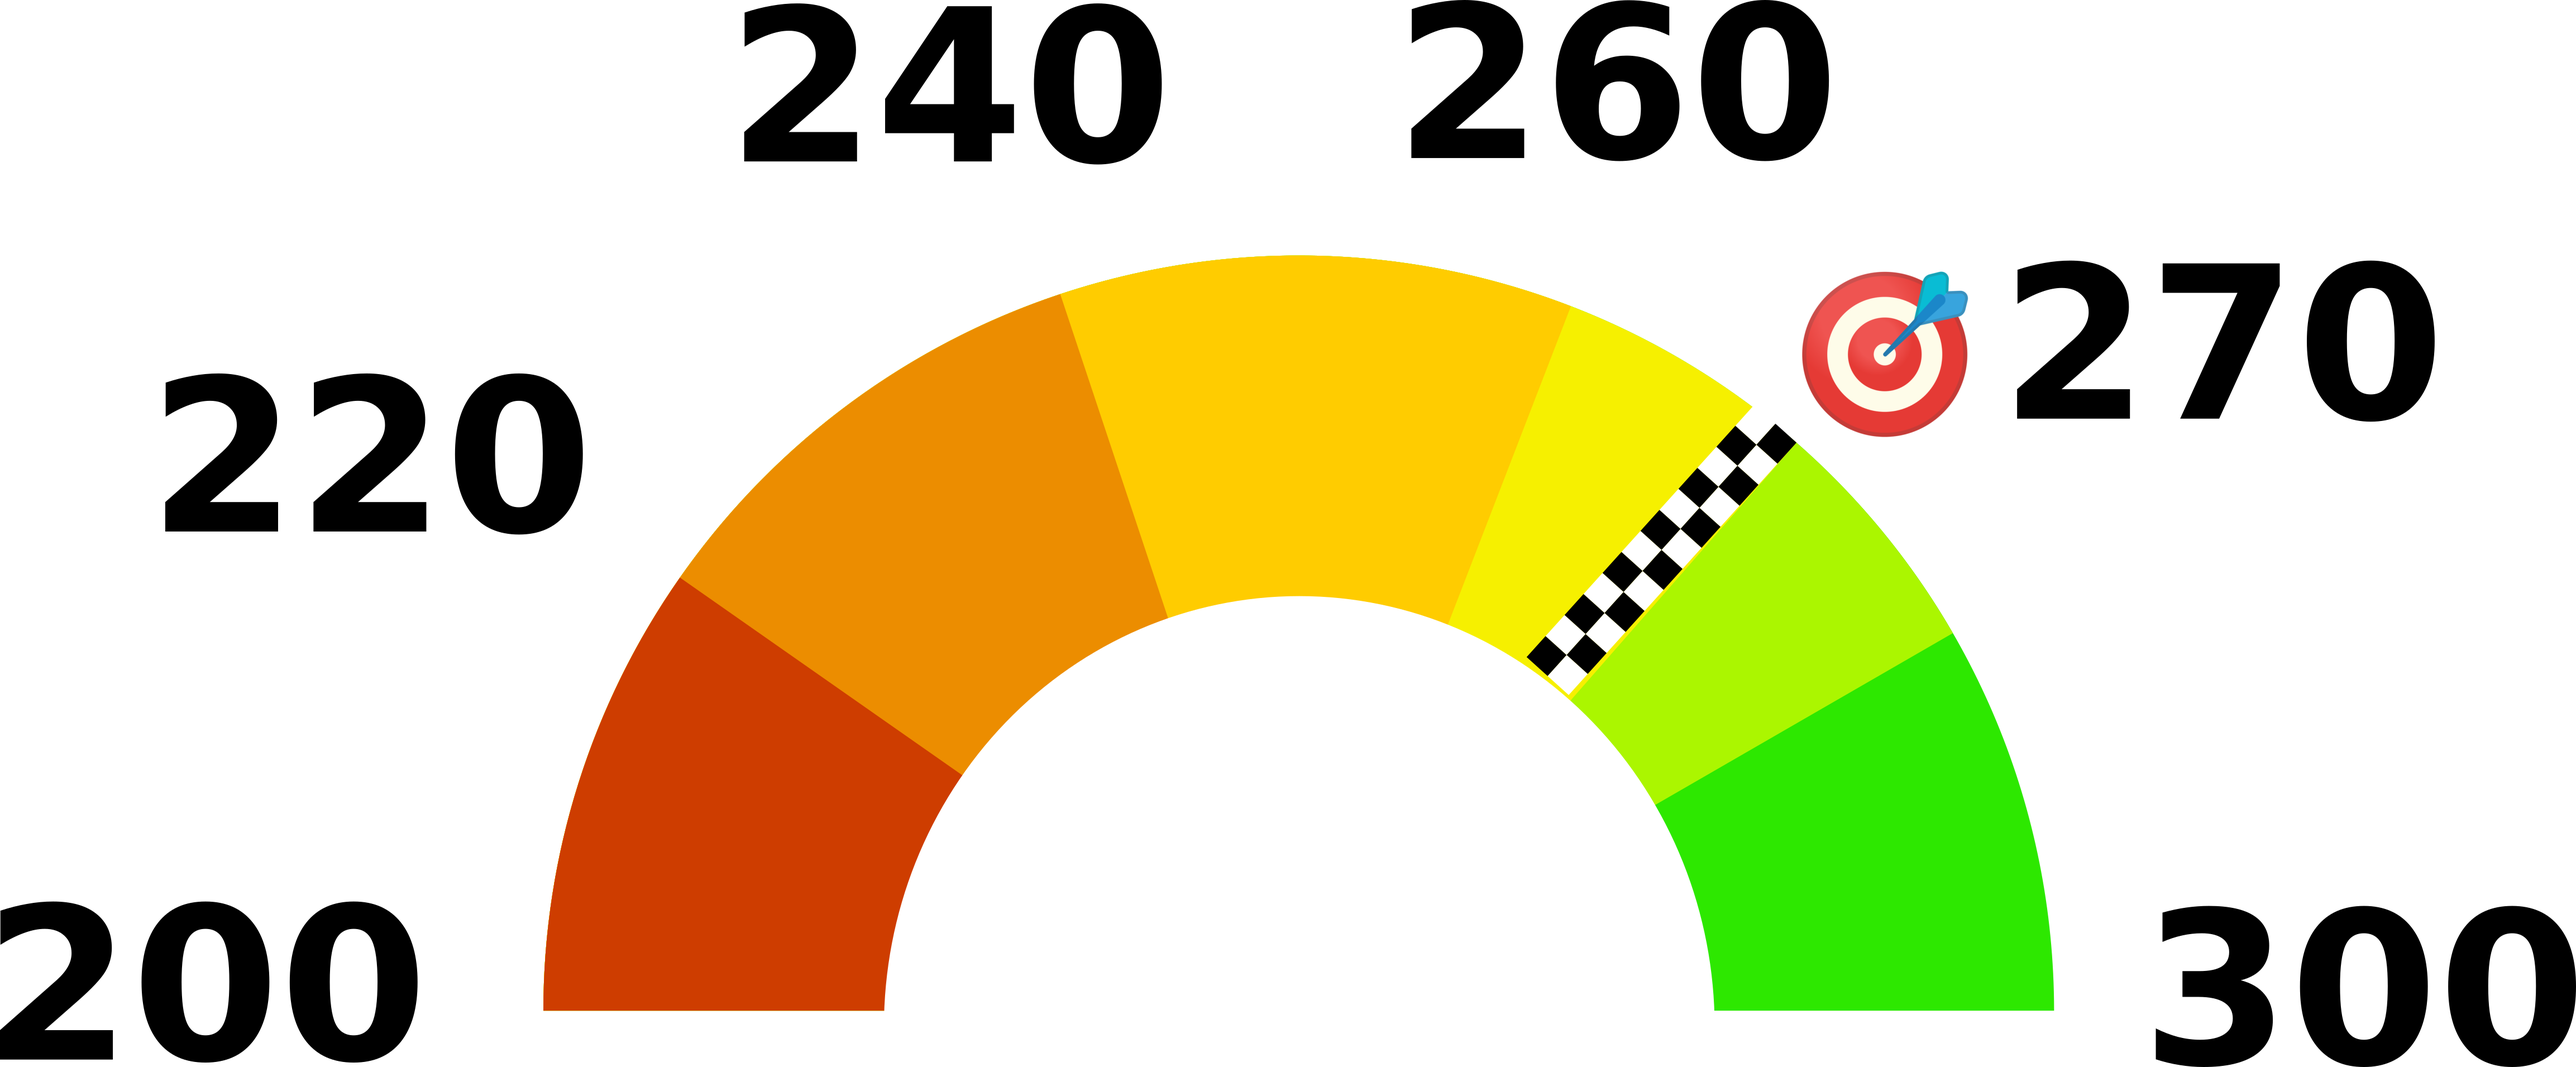
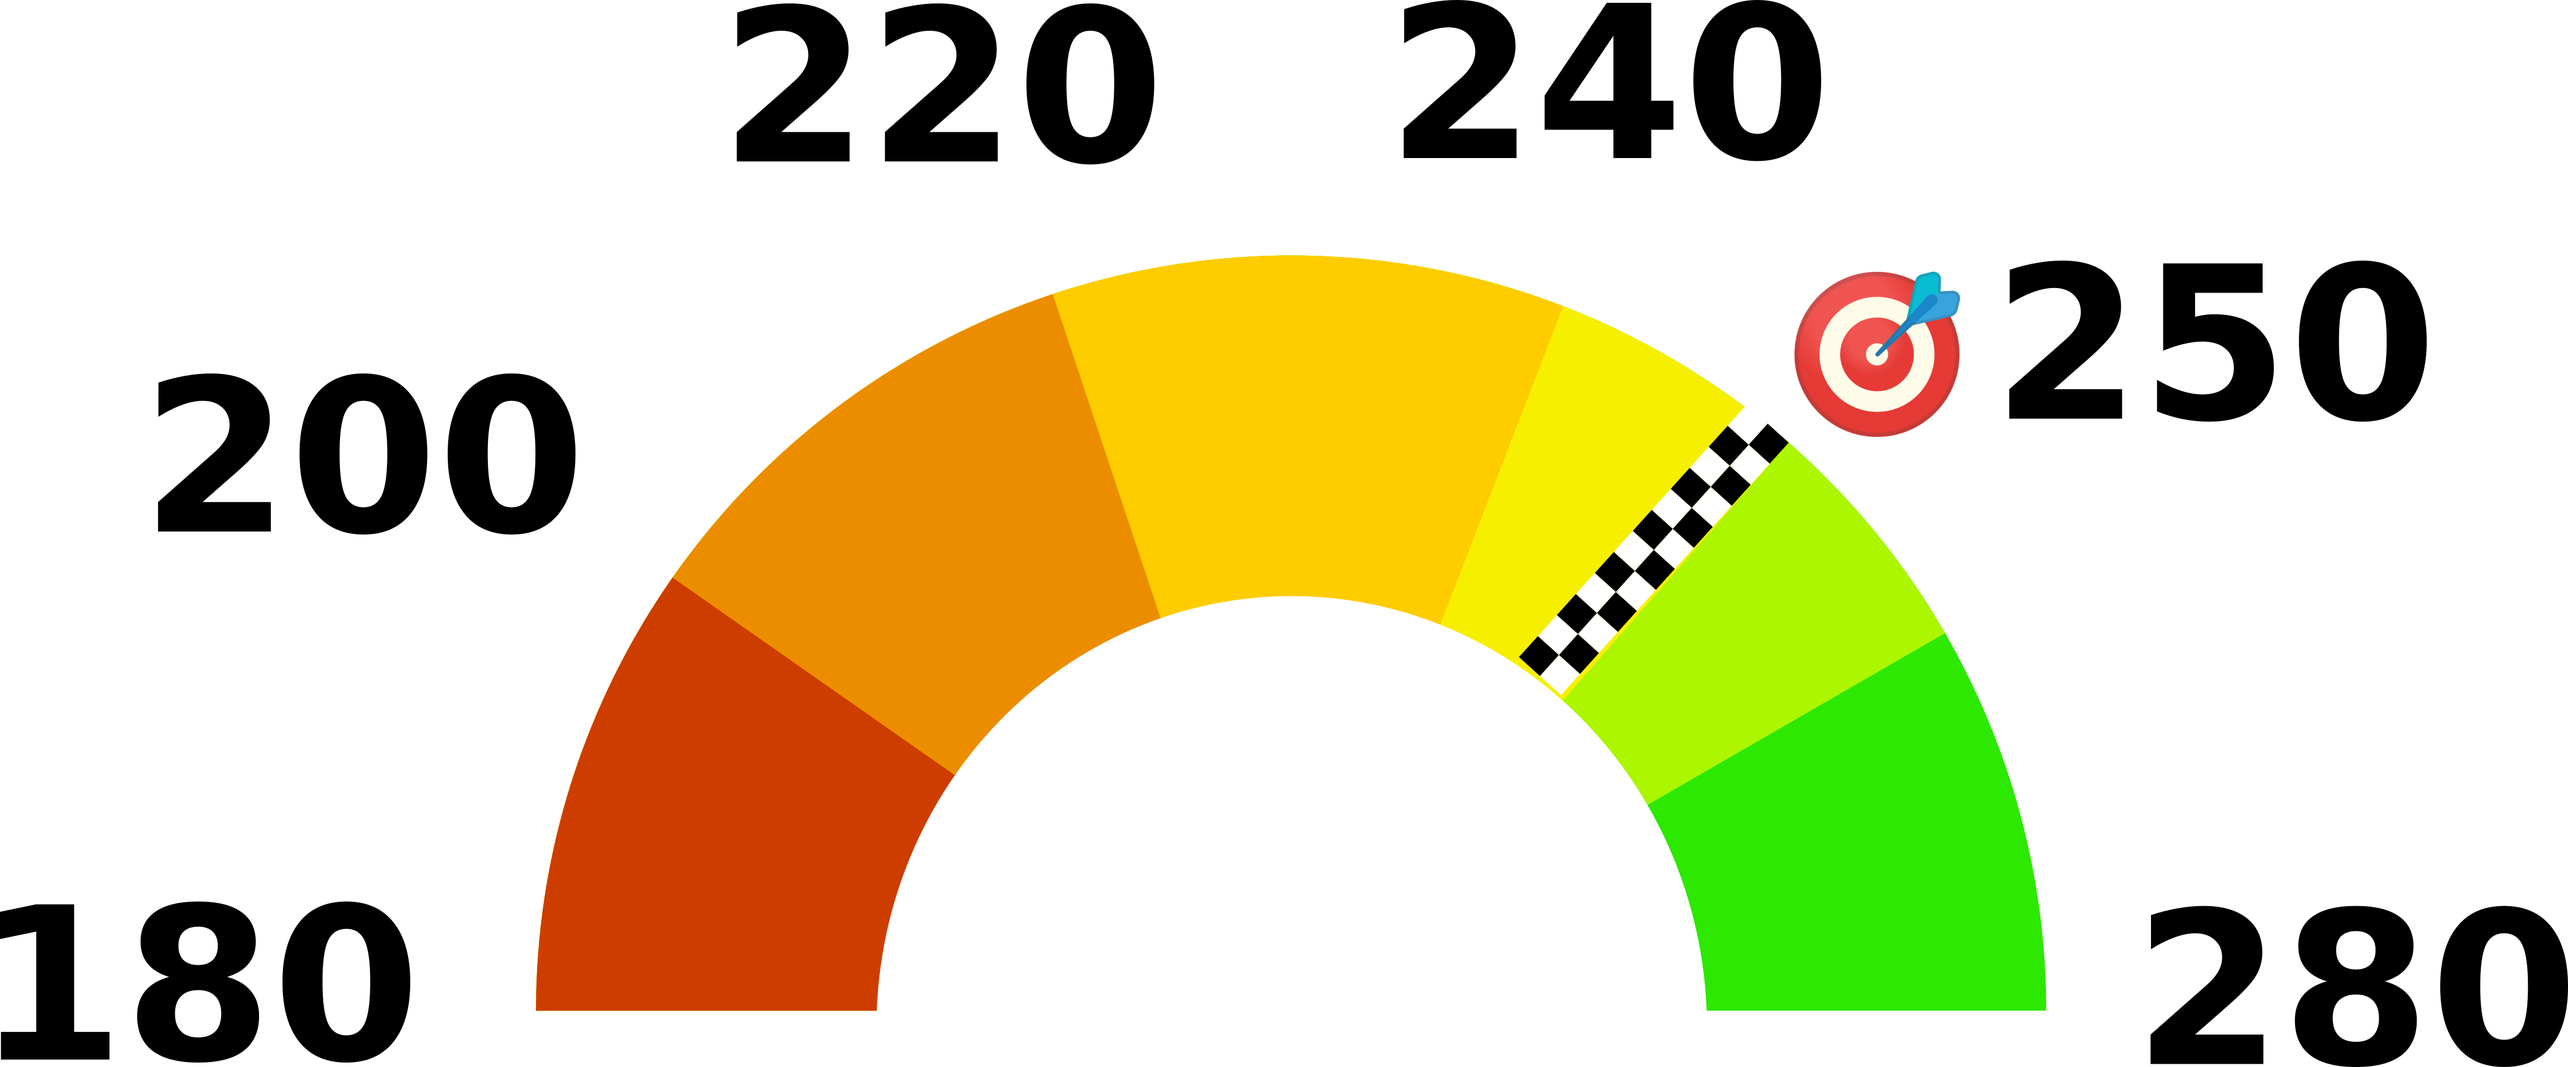
feat: update EAT counter with new target and image

diff --git a/mehalsgmues/utils/stats.py b/mehalsgmues/utils/stats.py
@@ -81,9 +81,9 @@ def get_eat_stats(active_parts):
     eat_equivalent_price = float(getattr(settings, "EAT_EQUIVALENT_PRICE", "1200") or "1200")
     num_eat_equivalent = float(active_parts.filter(
             type__price__gt=0).aggregate(total=Sum('type__price'))['total']) / eat_equivalent_price
-    target_num_eat = int(getattr(settings, "SUBSCRIPTION_PROGRESS_GOAL", "270") or "270")
+    target_num_eat = int(getattr(settings, "SUBSCRIPTION_PROGRESS_GOAL", "250") or "250")
     missing_eat = target_num_eat - num_eat_equivalent
-    rotation = 1.8 * min(max(num_eat_equivalent - 200, 0), 100)
+    rotation = 1.8 * min(max(num_eat_equivalent - 180, 0), 100)
     return {
         'eat_equivalent_price': eat_equivalent_price,
         'target_num_eat': target_num_eat,

diff --git a/mehalsgmues/settings.py b/mehalsgmues/settings.py
@@ -293,7 +293,7 @@ DJRICHTEXTFIELD_CONFIG = defaults.richtextfield_config(LANGUAGE_CODE, mailer={
 })
 
 # The goal for the number of standard subscrition equivalents
-SUBSCRIPTION_PROGRESS_GOAL = 270
+SUBSCRIPTION_PROGRESS_GOAL = 250
 # The price of one standard subscription
 EAT_EQUIVALENT_PRICE = 1200.0
 
